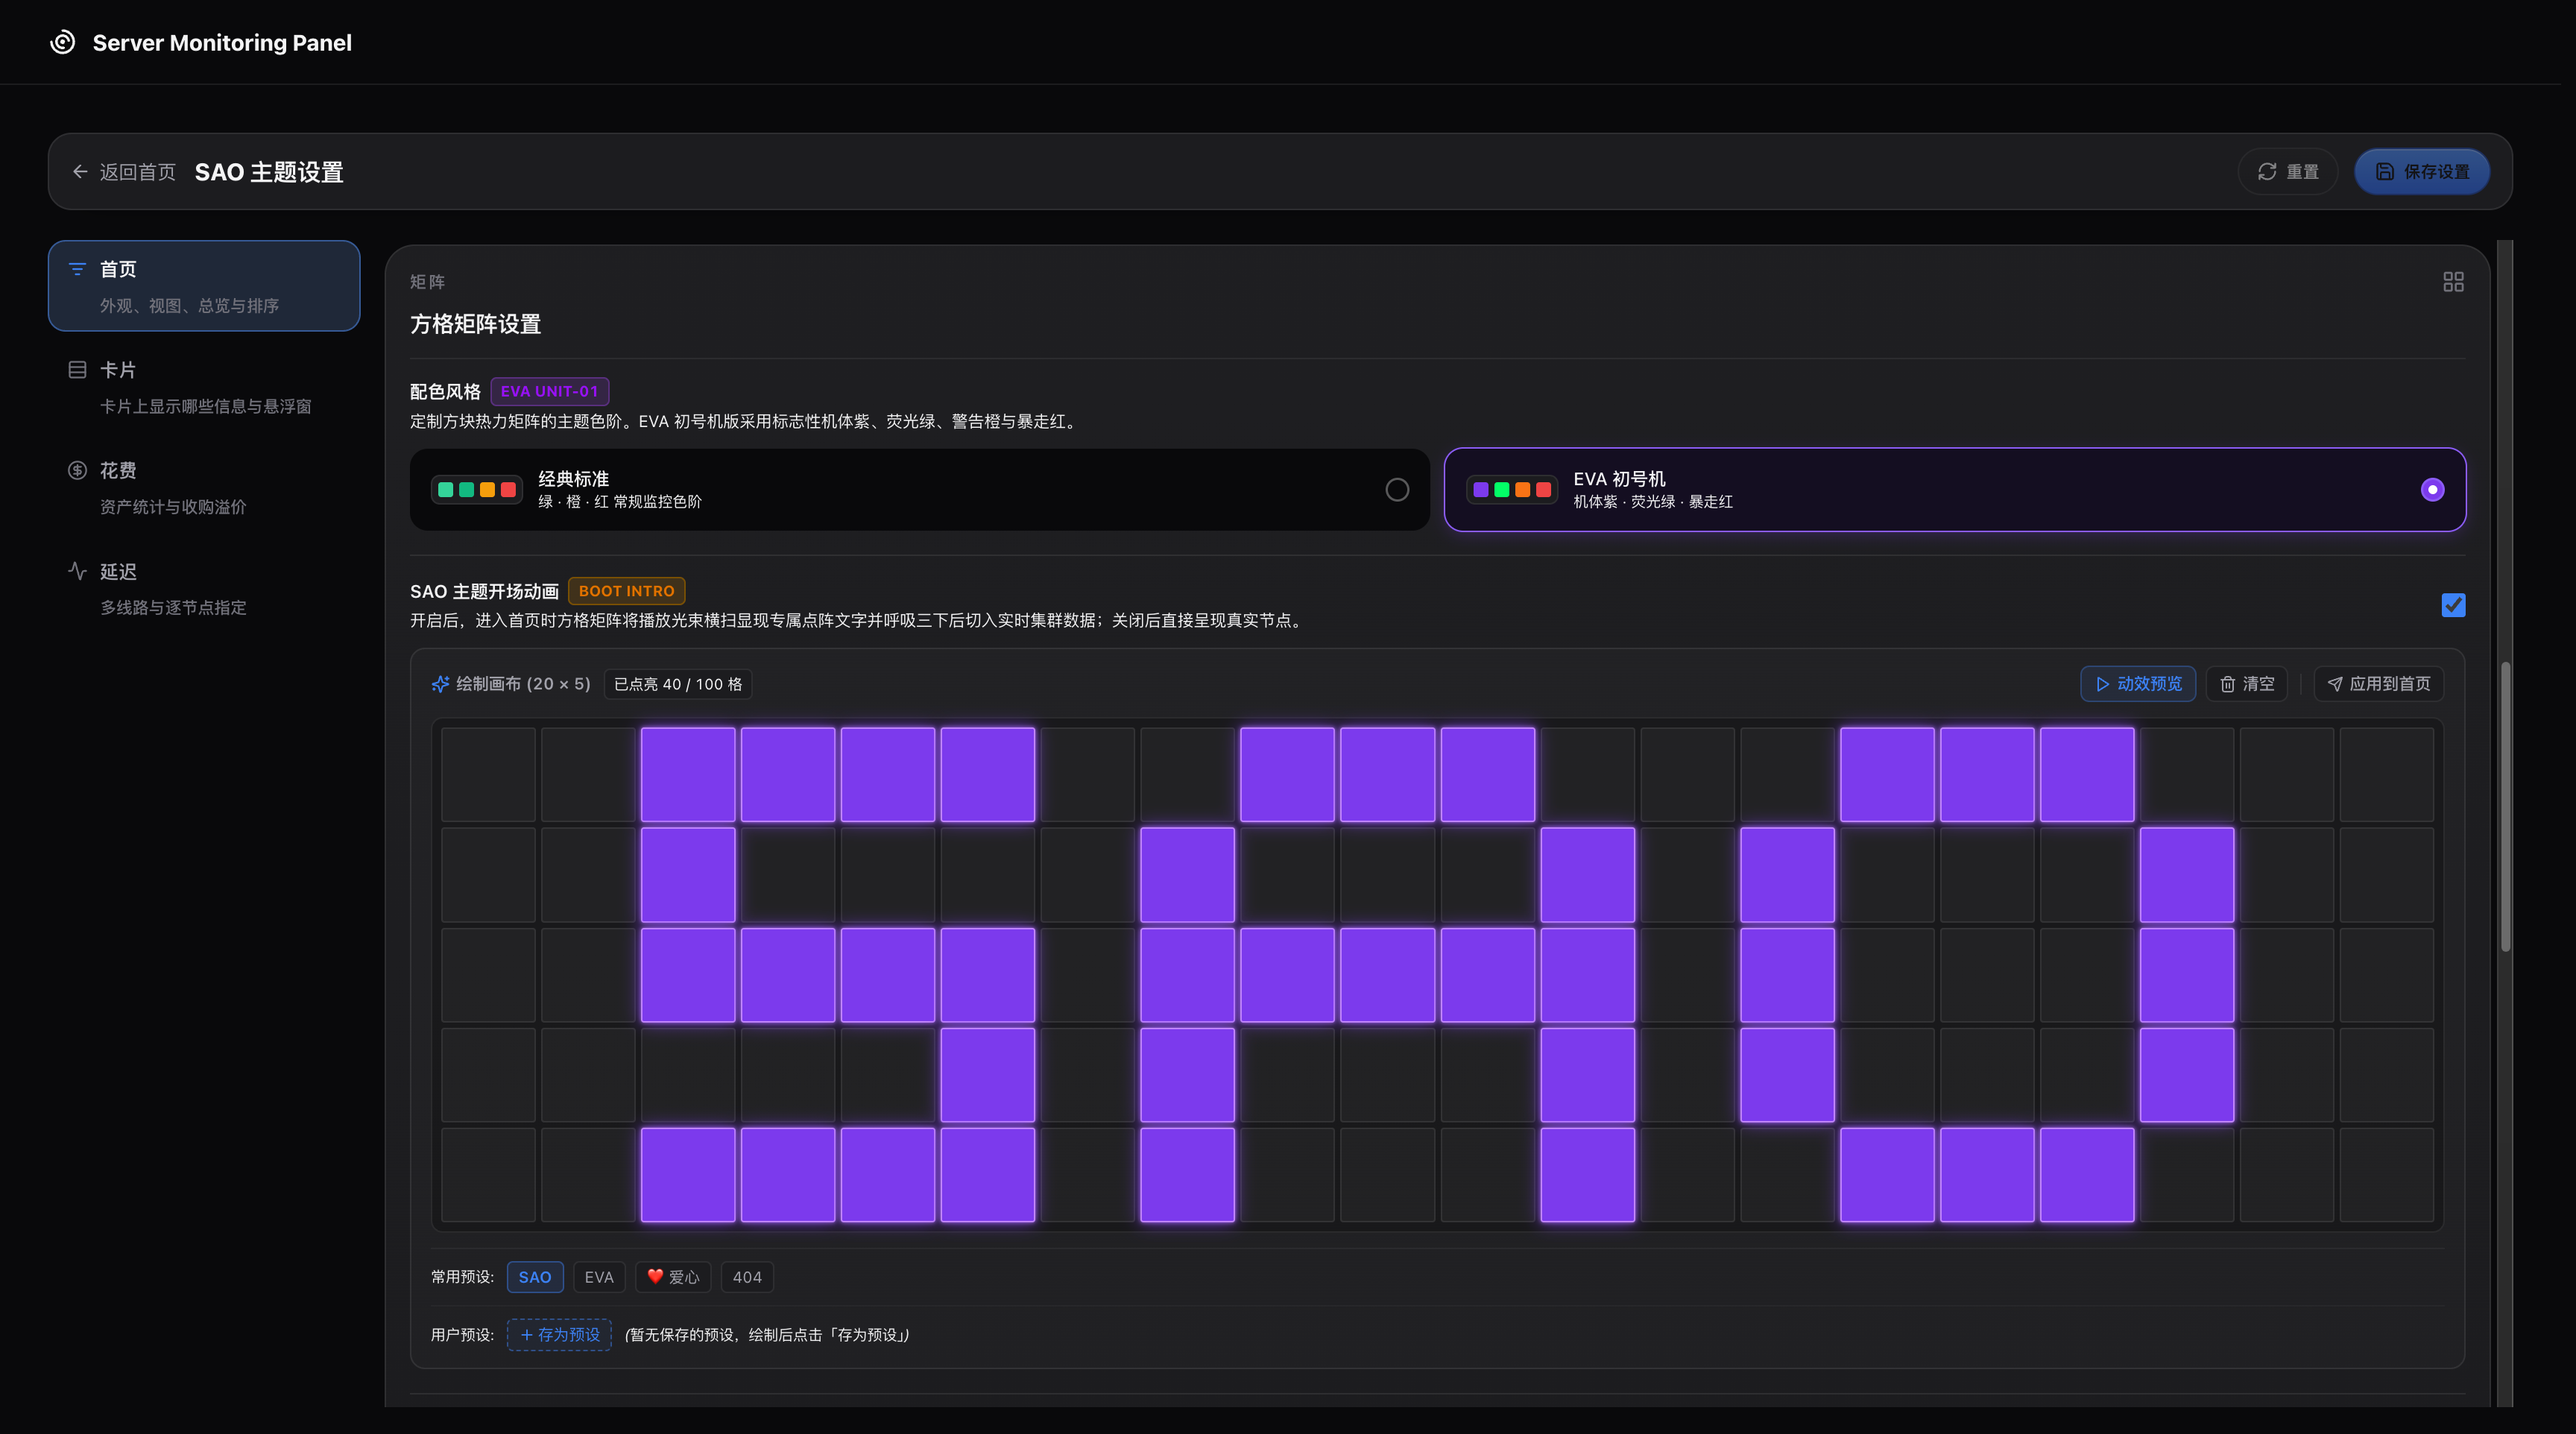
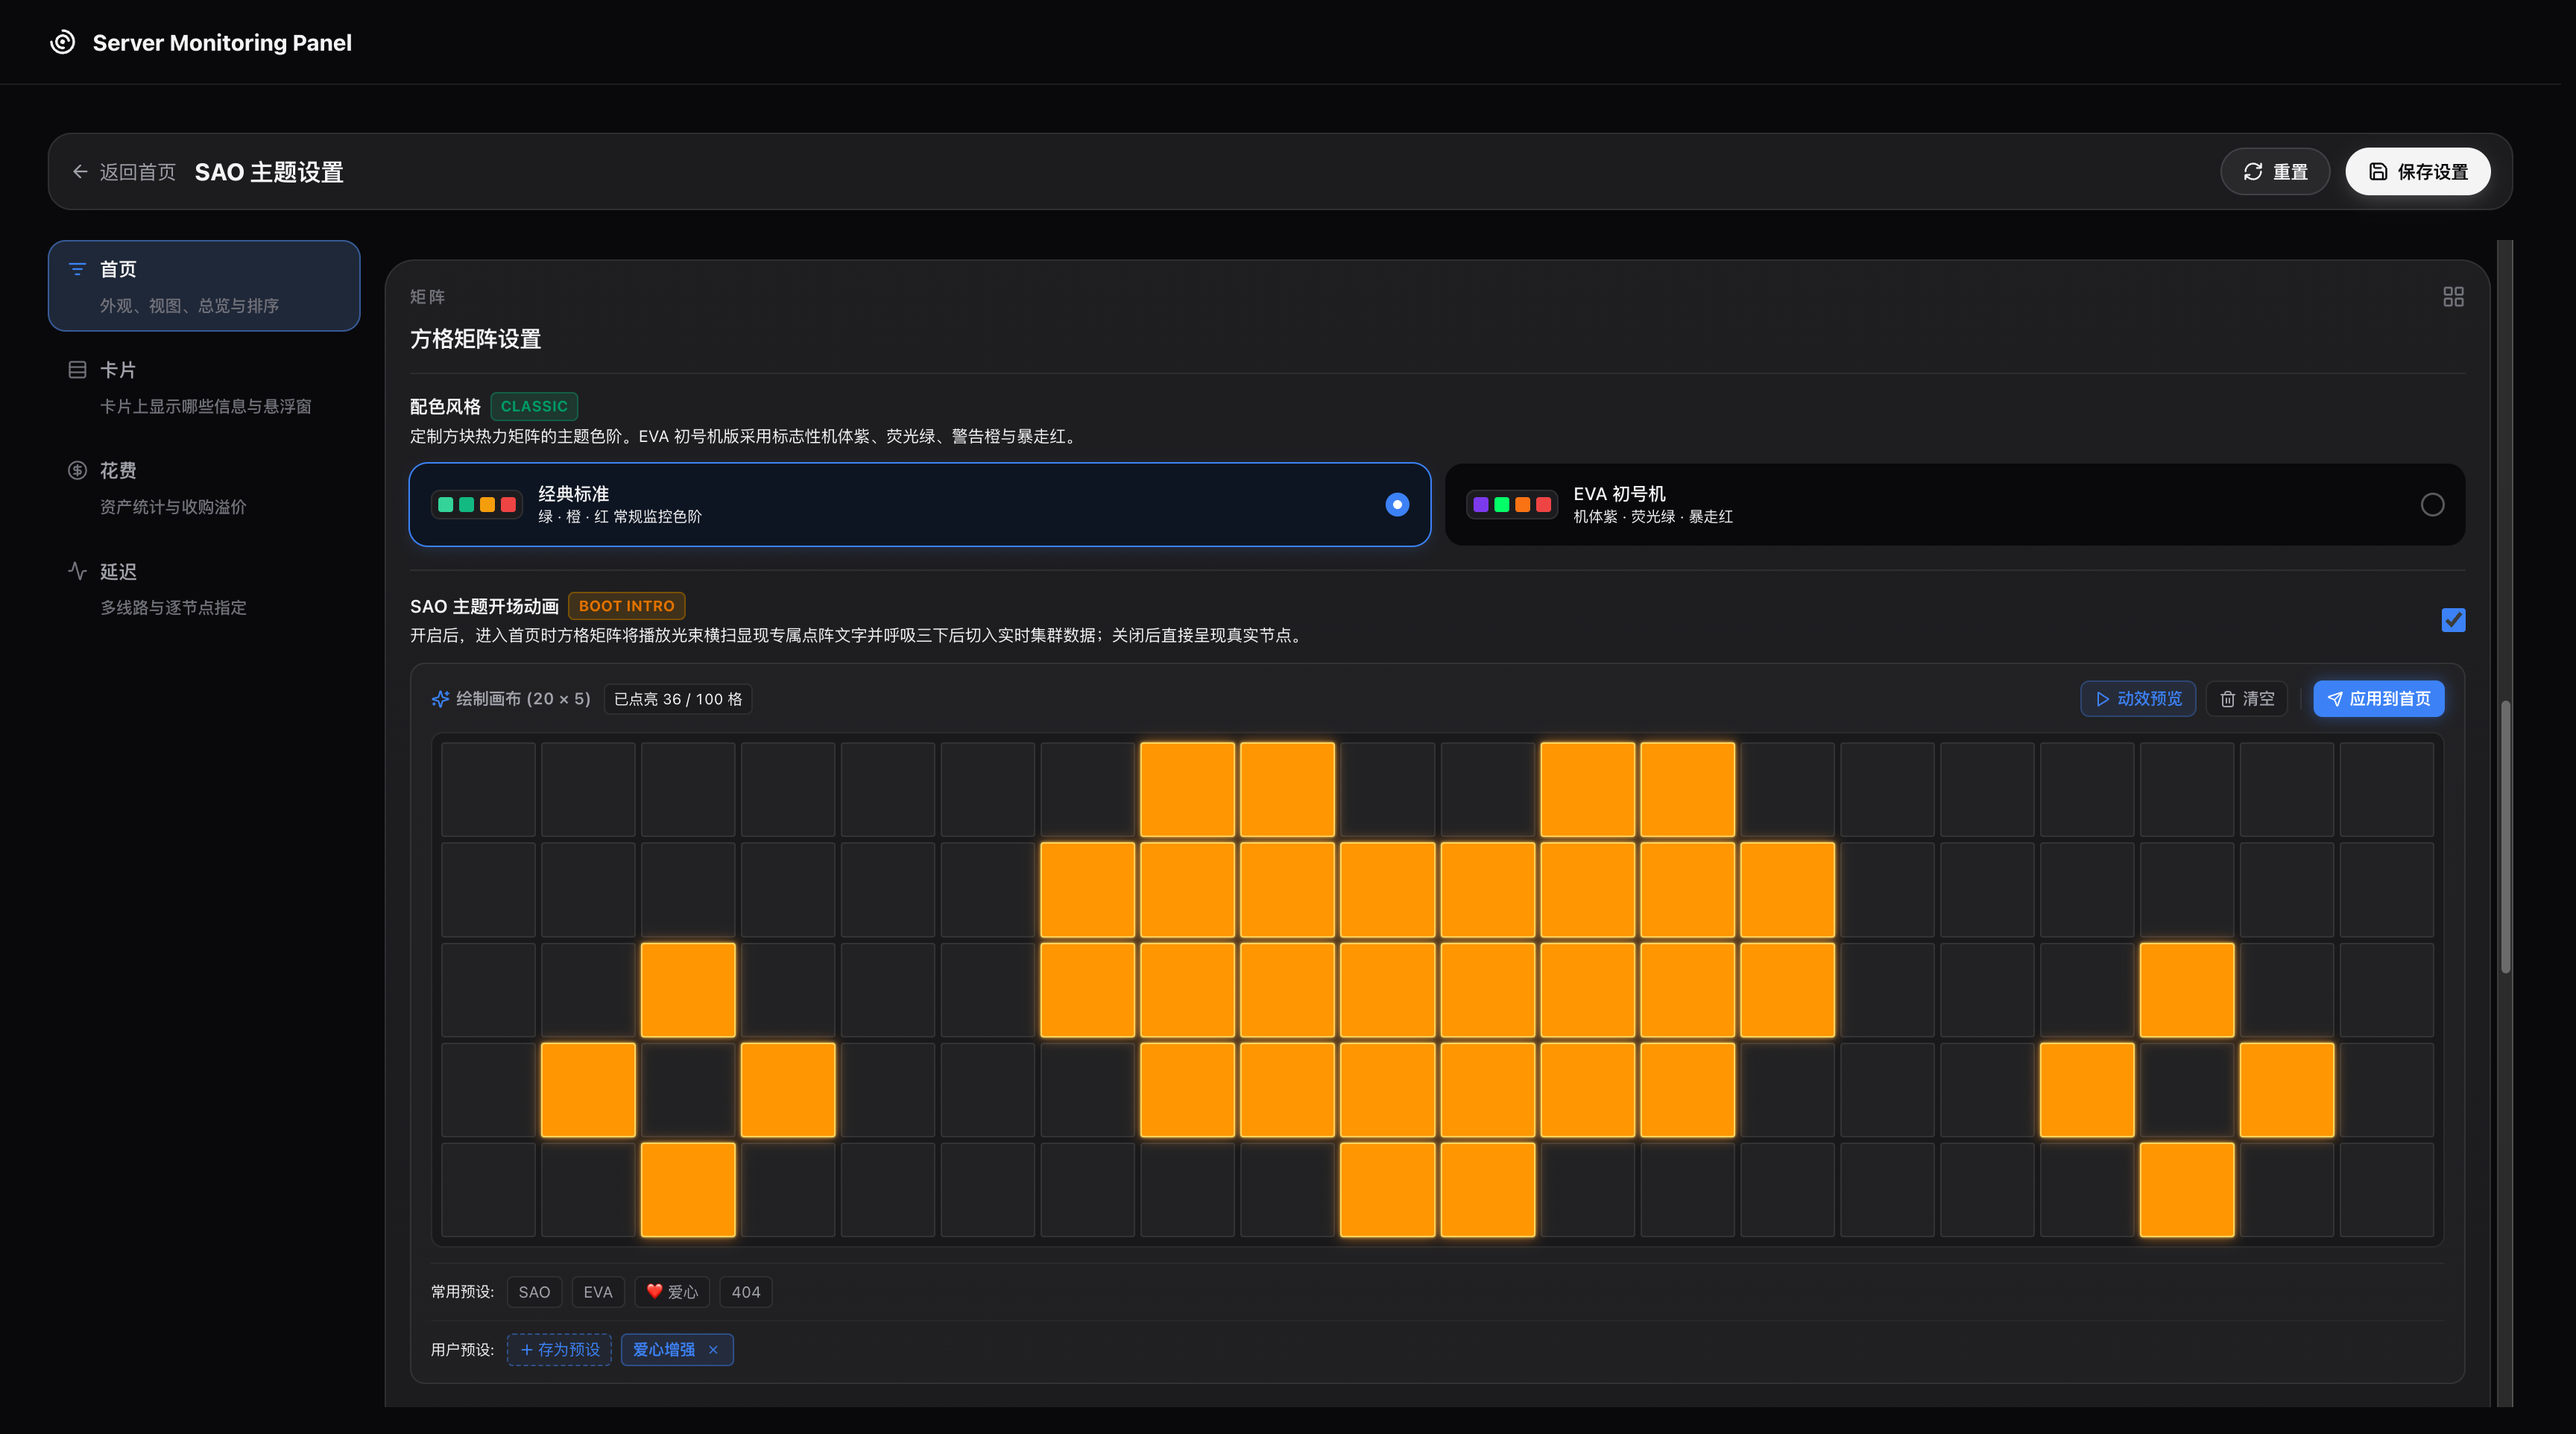
docs: 更新方格矩阵设置截图并增设移动端预览排版

diff --git a/README.md b/README.md
@@ -41,11 +41,19 @@
 
 #### 📸 方格矩阵视觉效果预览
 
+##### 🖥 桌面端大集群全景 (Desktop)
+
 |                               浅色模式（EVA 初号机配色）                               |                               深色模式（EVA 初号机配色）                                |
 | :-------------------------------------------------------------------------: | :--------------------------------------------------------------------------: |
 | <img src="./docs/images/matrix-light.png" alt="浅色模式 EVA 配色" width="100%" /> |  <img src="./docs/images/matrix-dark.png" alt="深色模式 EVA 配色" width="100%" />  |
 |                             **SAO 开屏激光扫光与点阵字符**                             |                             **主题管理：微型点阵画板与矩阵设置**                             |
 |  <img src="./docs/images/matrix-opening.png" alt="开屏扫光动效" width="100%" />   | <img src="./docs/images/matrix-settings.png" alt="主题设置与点阵画板" width="100%" /> |
+
+##### 📱 移动端窄屏精细适配 (Mobile)
+
+| 移动端深色矩阵全貌 | 移动端开屏点阵动效 | 移动端主题管理与点阵画板 |
+| :---: | :---: | :---: |
+| <img src="./docs/images/matrix-mobile-dark.png" alt="移动端深色矩阵全貌" width="100%" /> | <img src="./docs/images/matrix-mobile-diy.png" alt="移动端开屏点阵动效" width="100%" /> | <img src="./docs/images/matrix-mobile-settings.png" alt="移动端主题管理与点阵画板" width="100%" /> |
 
 - **护眼浅色与纯粹深色体系**：
   - **浅色模式**：采用分层浅灰底色搭配立体悬浮卡片，降低明亮背景下的视觉眩光刺激。
